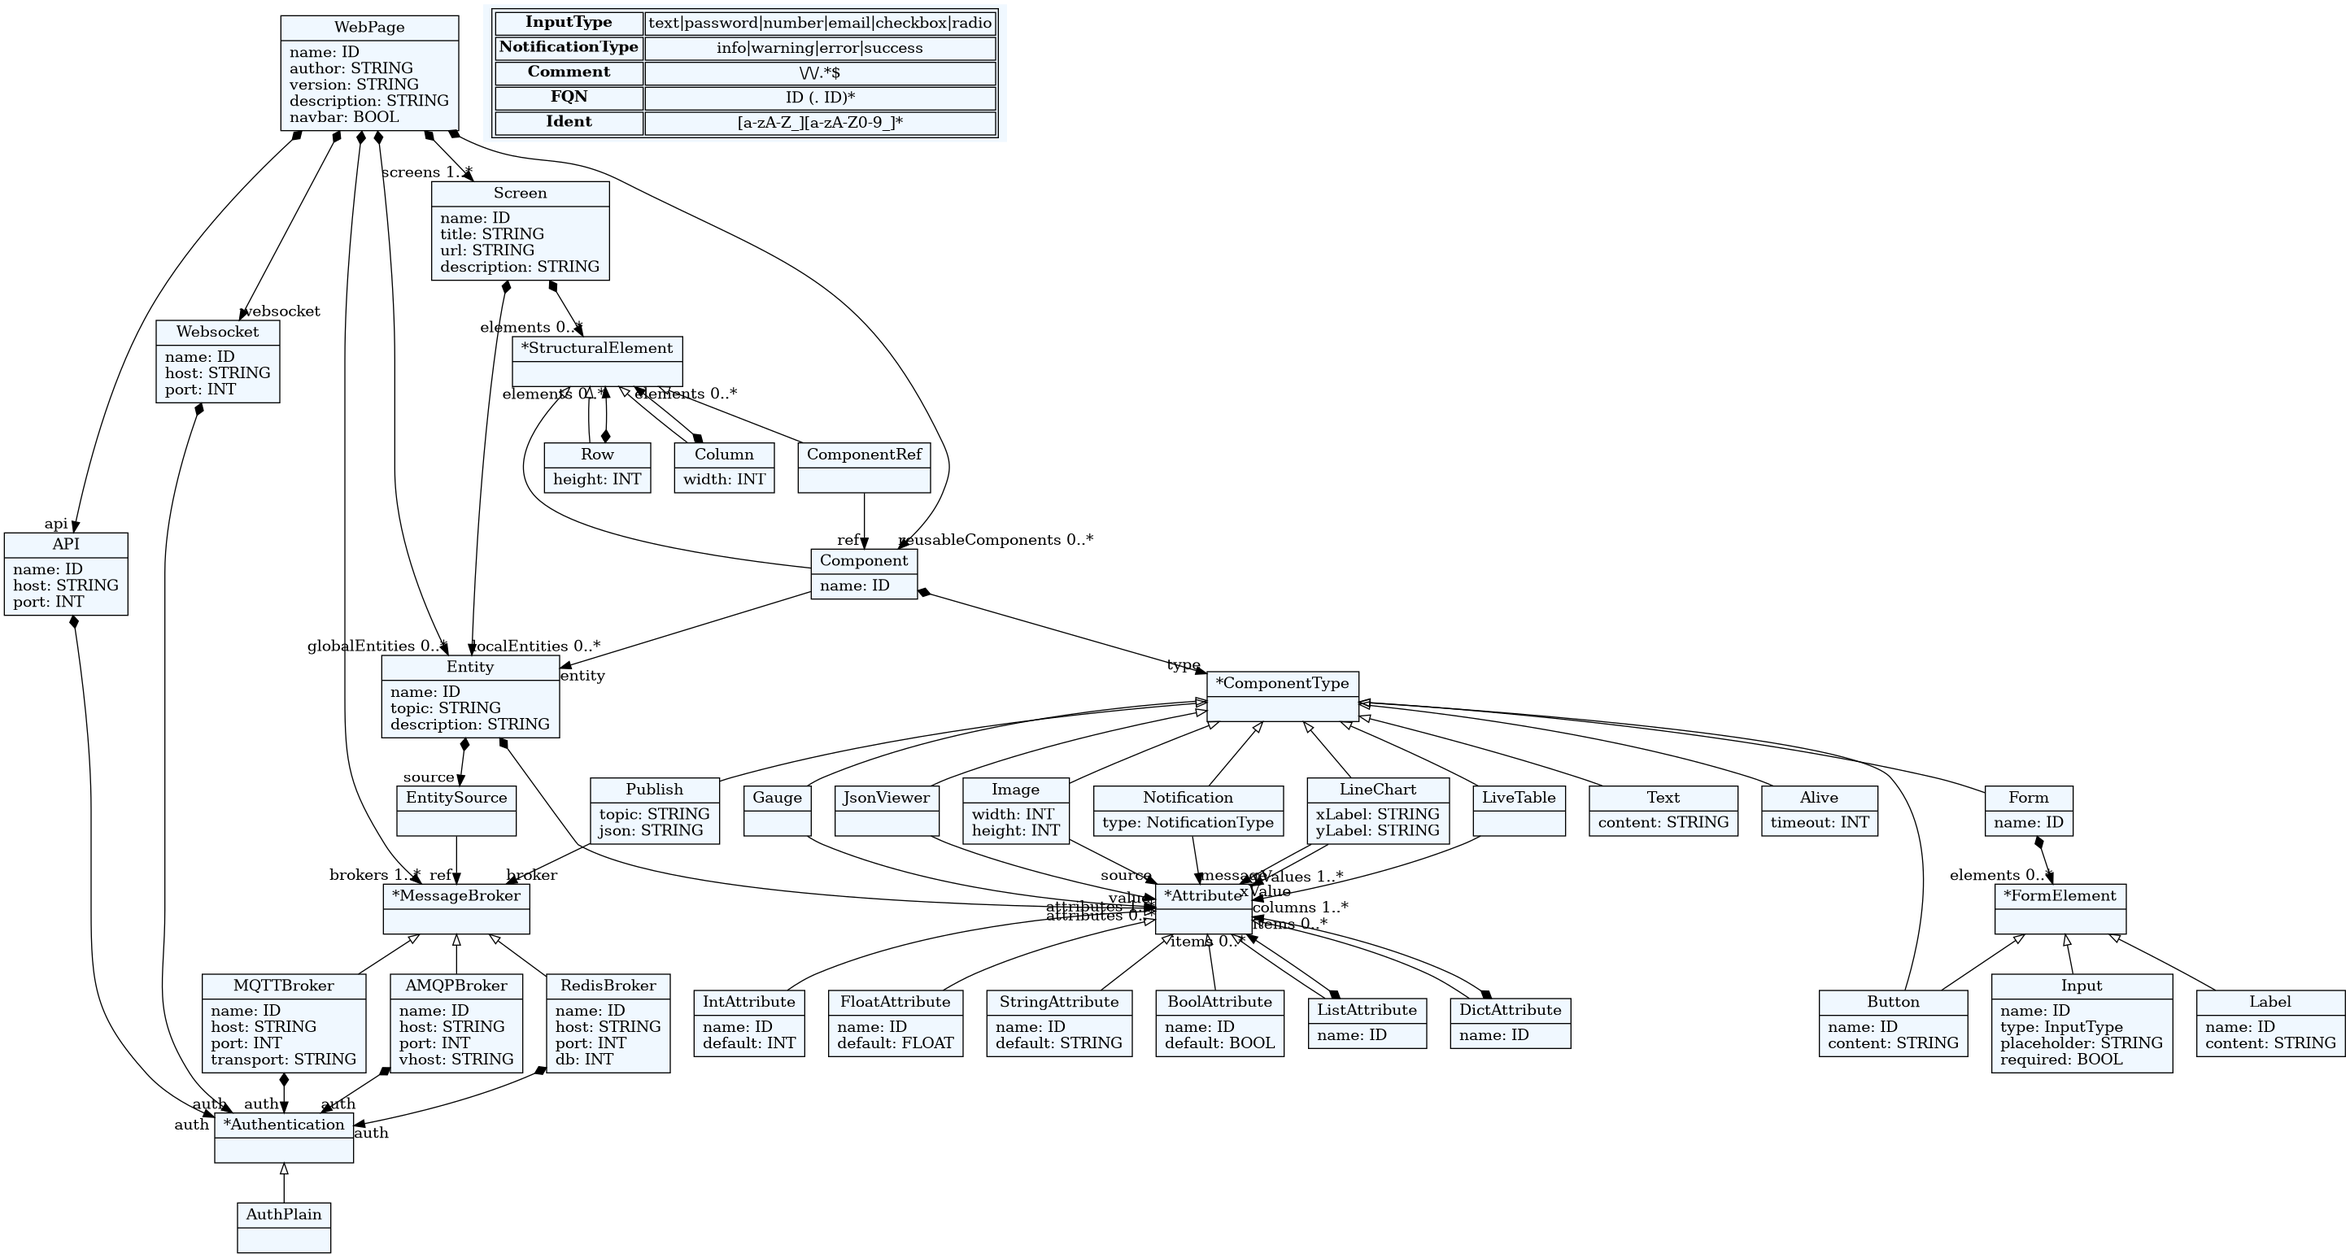
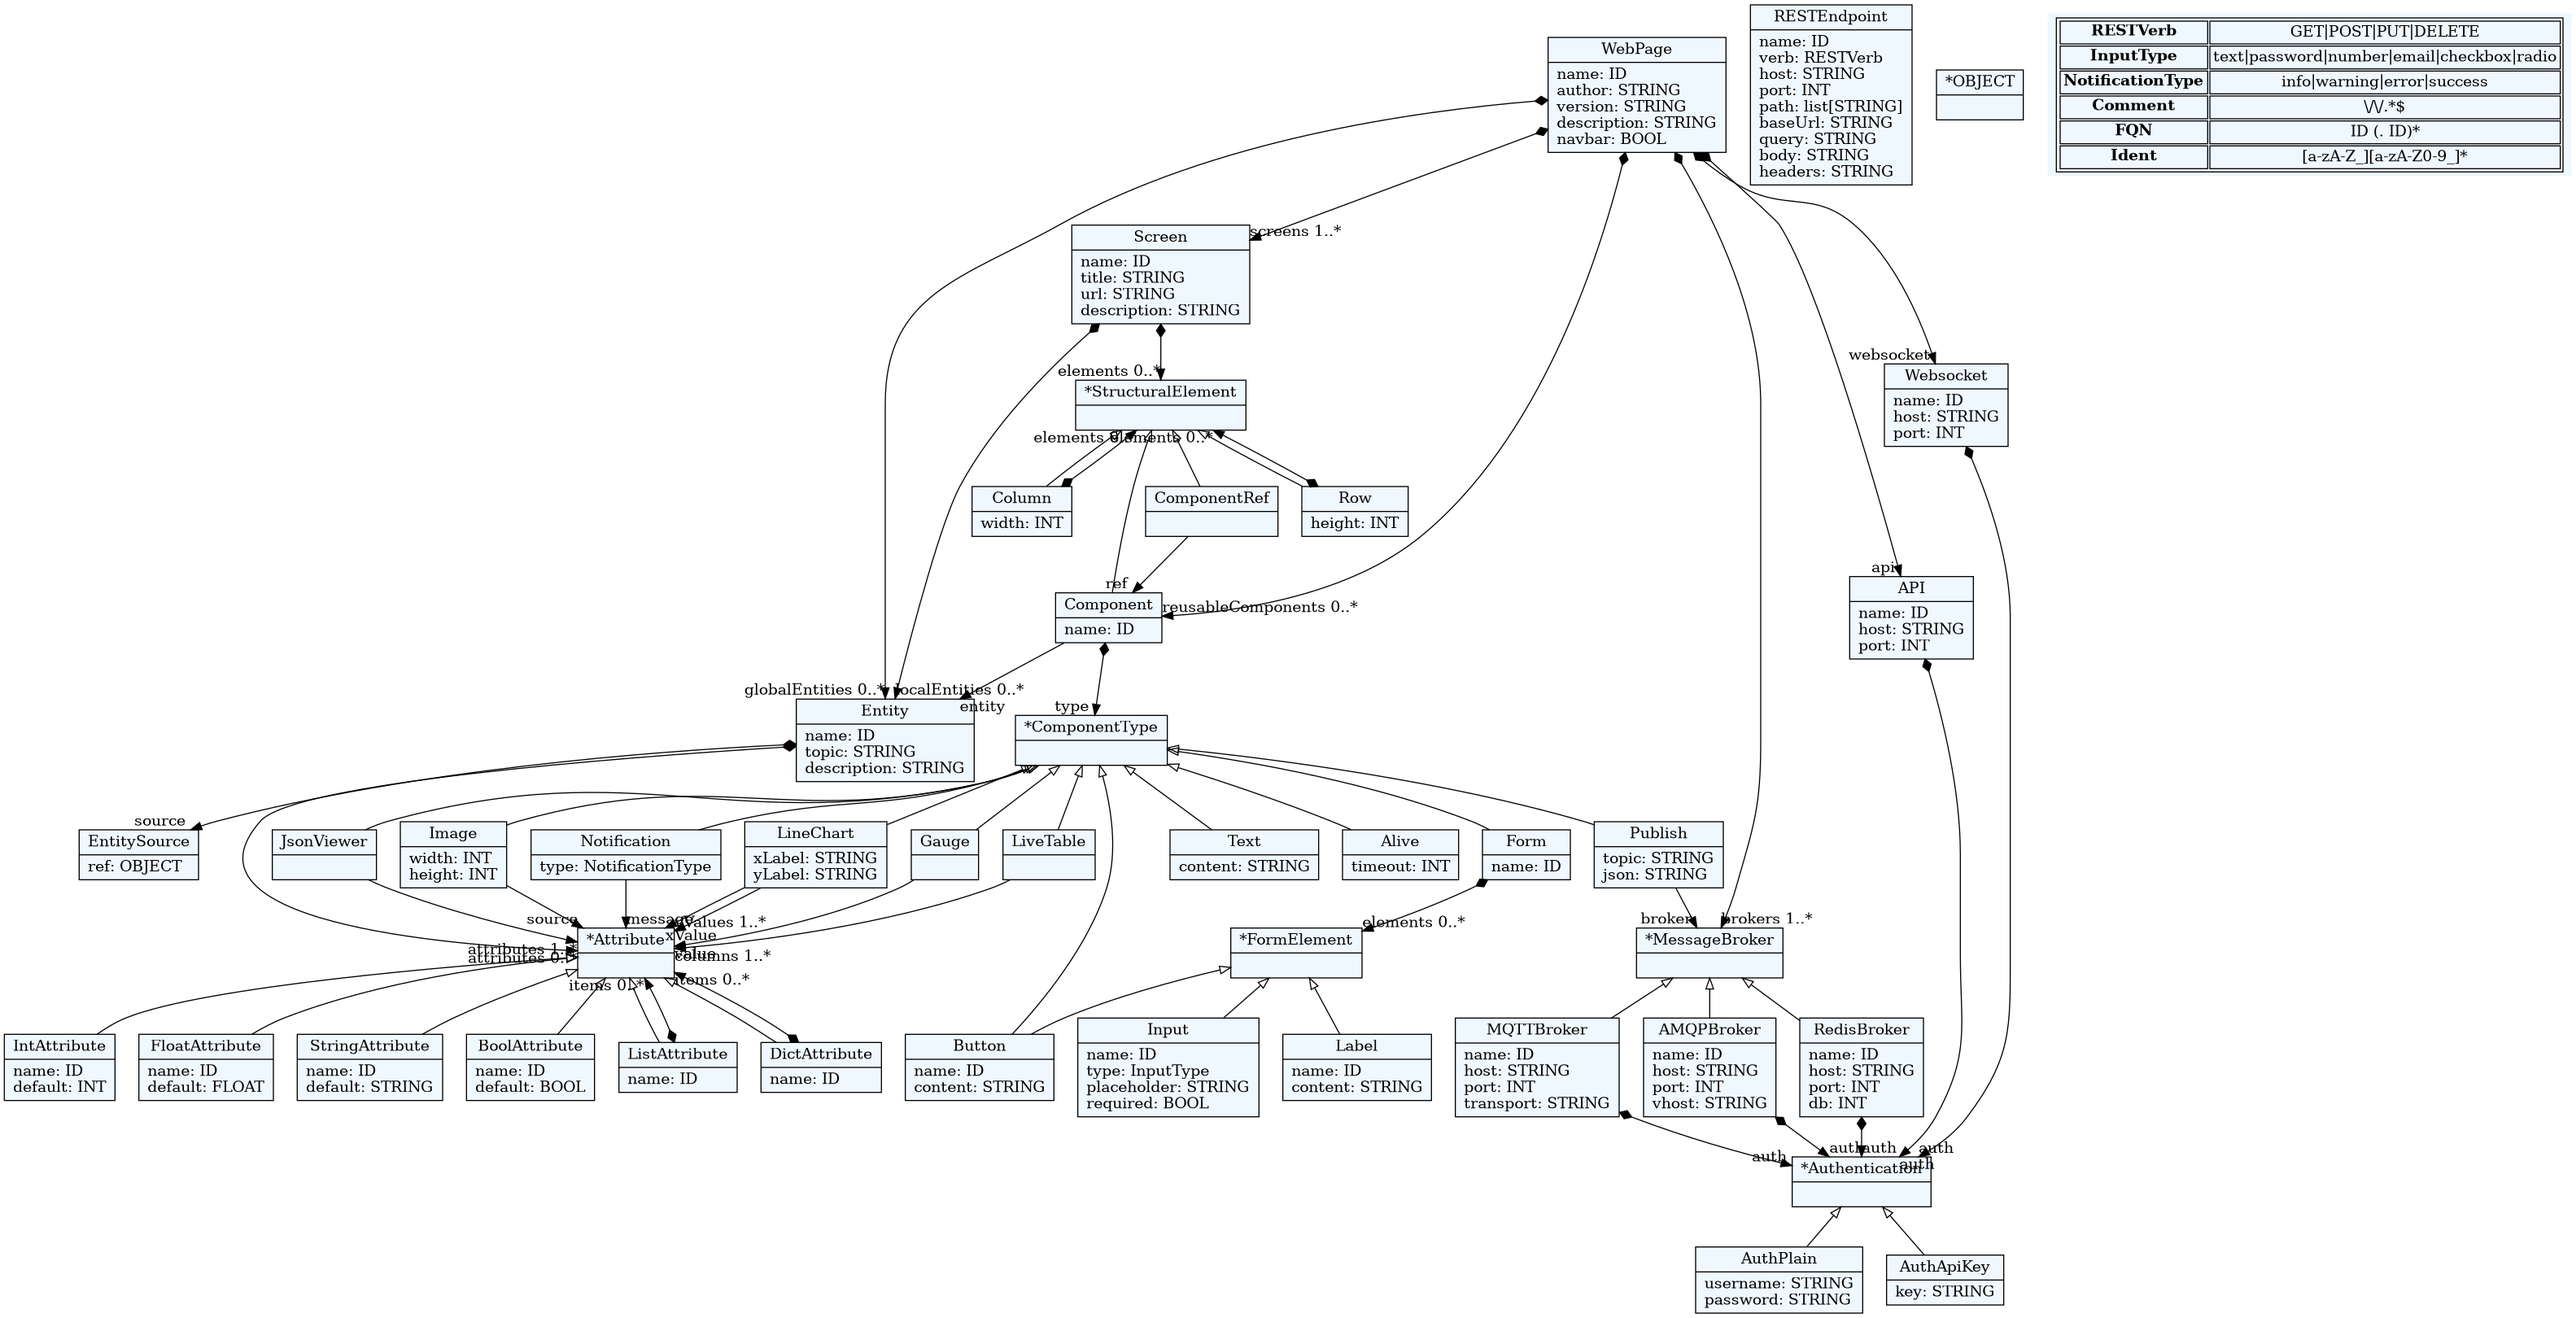
Added REST in dsl

diff --git a/web_dsl/base/frontend_base/src/api/proxyRestCall.js b/web_dsl/base/frontend_base/src/api/proxyRestCall.js
@@ -1,0 +1,37 @@
+import api from "./index";
+import { toast } from "react-toastify";
+
+export const proxyRestCall = async ({
+    baseUrl,
+    path,
+    method = "GET",
+    headers = {},
+    params = {},
+    body = {},
+    port = 443
+}) => {
+    try {
+        const restCallPayload = {
+            host: new URL(baseUrl).hostname,
+            port,
+            path,
+            base_url: baseUrl,
+            method,
+            headers,
+            params,
+            body
+        };
+
+        const response = await api.post("restcall", restCallPayload);
+
+        if (!response) {
+            toast.error("No response from proxy.");
+            return { status: "error", message: "No response from proxy" };
+        }
+
+        return response;
+    } catch (error) {
+        toast.error("Proxy REST call failed: " + error.message);
+        return { status: "error", message: error.message };
+    }
+};

diff --git a/web_dsl/language.py b/web_dsl/language.py
@@ -69,7 +69,7 @@ def get_metamodel(debug: bool = False, global_repo: bool = True):
     )
     # Register the reference resolver
 
-    metamodel.register_model_processor(validate_model)
+    metamodel.register_model_processor(resolve_references_post_build)
     return metamodel
 
 
@@ -77,36 +77,34 @@ def get_metamodel(debug: bool = False, global_repo: bool = True):
 #     pass
 
 
-def validate_entities(model):
-    for entity in model.globalEntities:
-        attr_names = set()
-        for attr in entity.attributes:
-            print(f"Validating attribute: {attr.name}")
-            if attr.name in attr_names:
-                raise TextXSemanticError(
-                    f"Duplicate attribute name '{attr.name}' in entity '{entity.name}'"
-                )
-            attr_names.add(attr.name)
-    for screen in model.screens:
-        for entity in screen.localEntities:
-            attr_names = set()
-            for attr in entity.attributes:
-                print(f"Validating attribute: {attr.name}")
-                if attr.name in attr_names:
-                    raise TextXSemanticError(
-                        f"Duplicate attribute name '{attr.name}' in entity '{entity.name}'"
-                    )
-                attr_names.add(attr.name)
+# def validate_entities(model):
+#     for entity in model.globalEntities:
+#         attr_names = set()
+#         for attr in entity.attributes:
+#             print(f"Validating attribute: {attr.name}")
+#             if attr.name in attr_names:
+#                 raise TextXSemanticError(
+#                     f"Duplicate attribute name '{attr.name}' in entity '{entity.name}'"
+#                 )
+#             attr_names.add(attr.name)
+#     for screen in model.screens:
+#         for entity in screen.localEntities:
+#             attr_names = set()
+#             for attr in entity.attributes:
+#                 print(f"Validating attribute: {attr.name}")
+#                 if attr.name in attr_names:
+#                     raise TextXSemanticError(
+#                         f"Duplicate attribute name '{attr.name}' in entity '{entity.name}'"
+#                     )
+#                 attr_names.add(attr.name)
 
 
-def validate_model(model):
-    """Validates the model."""
-    # Check for duplicate attribute names in global entities
-    validate_entities(model)
-    resolve_references_post_build(model)
-
-    # Add more validation logic as needed
-    # For example, check for required attributes, etc.
+# def validate_model(model):
+#     """Validates the model."""
+#     pass
+# Check for duplicate attribute names in global entities
+# Add more validation logic as needed
+# For example, check for required attributes, etc.
 
 
 def build_model(model_path: str):

diff --git a/web_dsl/base/backend_base/main.py b/web_dsl/base/backend_base/main.py
@@ -2,8 +2,9 @@ import asyncio
 import threading
 import logging
 import uvicorn
+import httpx
 from pydantic import BaseModel
-from fastapi import FastAPI
+from fastapi import FastAPI, HTTPException
 from fastapi.middleware.cors import CORSMiddleware
 from websocket_server import WebSocketServer
 from commlib_client import BrokerCommlibClient
@@ -124,6 +125,17 @@ class PublishRequest(BaseModel):
     topic: str
 
 
+class RESTCallRequest(BaseModel):
+    host: str
+    port: int
+    path: str
+    base_url: str
+    method: str
+    headers: dict
+    params: dict
+    body: dict
+
+
 # Publish API endpoint
 @app.post("/publish")
 async def publish_message(request: PublishRequest):
@@ -143,6 +155,44 @@ async def publish_message(request: PublishRequest):
                 return {"status": "error", "message": str(e)}
 
     return {"status": "error", "message": f"Broker {broker} not found"}
+
+
+# Endpoint to make rest calls
+@app.post("/restcall")
+async def rest_call(request: RESTCallRequest):
+    """Make a REST call to a specified endpoint."""
+    url = f"{request.base_url}:{request.port}{request.path}"
+    logging.info(f"Making {request.method} request to {url}")
+
+    try:
+        async with httpx.AsyncClient() as client:
+            response = await client.request(
+                method=request.method.upper(),
+                url=url,
+                headers=request.headers,
+                params=request.params,
+                json=request.body,  # use `data=` if it's form-encoded or raw
+            )
+
+        return {
+            "status_code": response.status_code,
+            "headers": dict(response.headers),
+            "body": (
+                response.json()
+                if response.headers.get("content-type", "").startswith(
+                    "application/json"
+                )
+                else response.text
+            ),
+        }
+
+    except httpx.RequestError as e:
+        logging.error(f"HTTP request failed: {e}")
+        raise HTTPException(status_code=500, detail=f"Request error: {str(e)}")
+
+    except Exception as e:
+        logging.error(f"Unexpected error: {e}")
+        raise HTTPException(status_code=500, detail="Unexpected error occurred.")
 
 
 if __name__ == "__main__":

diff --git a/web_dsl/lib/component.py b/web_dsl/lib/component.py
@@ -56,6 +56,15 @@ class Component:
         self.name = name
         self.entity = entity  # This should point to an Entity
         self.type = type  # This could be Gauge, etc.
+        self.sourceOfContent = (
+            "broker"
+            if entity.source.ref.__class__.__name__ == "MessageBroker"
+            else (
+                "rest"
+                if entity.source.ref.__class__.__name__ == "RESTEndpoint"
+                else "unknown"
+            )
+        )
 
     def __str__(self):
         return self.name
